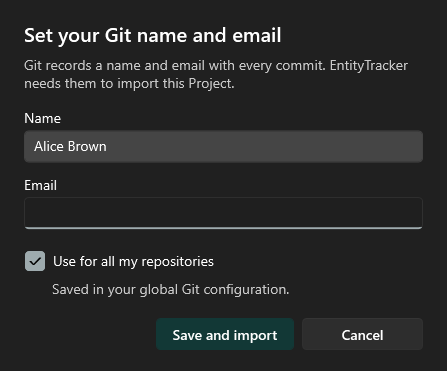
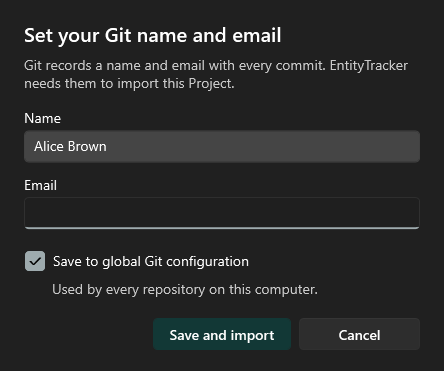
Label the scope checkbox "Save to global Git configuration"
The line under it now says what that means ("Used by every repository on
this computer.") instead of repeating the label. The README text and the
dialog's captures follow.

diff --git a/src/EntityTracker.Wpf/Views/GitIdentityDialog.xaml b/src/EntityTracker.Wpf/Views/GitIdentityDialog.xaml
@@ -28,7 +28,7 @@
                      Text="{Binding Email, UpdateSourceTrigger=PropertyChanged}" />
 
             <CheckBox x:Name="ScopeCheckBox" Margin="0,16,0,0"
-                      Content="Use for all my _repositories" IsChecked="{Binding SaveForAllRepositories}"
+                      Content="Save to _global Git configuration" IsChecked="{Binding SaveToGlobalConfiguration}"
                       AutomationProperties.HelpText="{Binding ScopeDescription}" />
             <TextBlock Margin="28,2,0,0" Style="{StaticResource PageDescriptionTextStyle}"
                        Text="{Binding ScopeDescription}" />

diff --git a/src/EntityTracker.Wpf/ViewModels/GitIdentityDialogViewModel.cs b/src/EntityTracker.Wpf/ViewModels/GitIdentityDialogViewModel.cs
@@ -38,7 +38,7 @@ public sealed class GitIdentityDialogViewModel : INotifyPropertyChanged
     }
 
     /// <summary>On: the global Git configuration (every repository). Off: only this repository.</summary>
-    public bool SaveForAllRepositories
+    public bool SaveToGlobalConfiguration
     {
         get => _saveForAllRepositories;
         set
@@ -53,7 +53,7 @@ public sealed class GitIdentityDialogViewModel : INotifyPropertyChanged
     public GitConfigScope Scope => _saveForAllRepositories ? GitConfigScope.Global : GitConfigScope.Local;
 
     public string ScopeDescription => _saveForAllRepositories
-        ? "Saved in your global Git configuration."
+        ? "Used by every repository on this computer."
         : "Saved only in this repository's Git configuration.";
 
     /// <summary>Cancel was pressed once; the next press closes without importing.</summary>

diff --git a/tests/EntityTracker.Wpf.Tests/ViewModels/GitIdentityDialogViewModelTests.cs b/tests/EntityTracker.Wpf.Tests/ViewModels/GitIdentityDialogViewModelTests.cs
@@ -15,13 +15,13 @@ public sealed class GitIdentityDialogViewModelTests
     }
 
     [Fact]
-    public void TheGlobalConfigurationIsTheDefaultAndTheSwitchChoosesThisRepository()
+    public void TheGlobalConfigurationIsTheDefaultAndClearingItChoosesThisRepository()
     {
         GitIdentityDialogViewModel dialog = new(null, null);
         Assert.Equal(GitConfigScope.Global, dialog.Scope);
-        Assert.Equal("Saved in your global Git configuration.", dialog.ScopeDescription);
+        Assert.Equal("Used by every repository on this computer.", dialog.ScopeDescription);
 
-        dialog.SaveForAllRepositories = false;
+        dialog.SaveToGlobalConfiguration = false;
 
         Assert.Equal(GitConfigScope.Local, dialog.Scope);
         Assert.Equal("Saved only in this repository's Git configuration.", dialog.ScopeDescription);

diff --git a/README.md b/README.md
@@ -132,7 +132,7 @@ snapshot with its stable IDs and history. If its Project name is already used lo
 private name for this installation; the shared snapshot keeps its original name.
 
 If Git has no name or email for your commits yet, import asks for them, with any value already set
-filled in. **Use for all my repositories** saves them in your global Git configuration; clear it to
+filled in. **Save to global Git configuration** saves them for every repository on this computer; clear it to
 save them only in this repository. **Save and import** carries on with the import. Cancel needs a
 second press, **Confirm cancel**, since the Project is then not imported.
 
